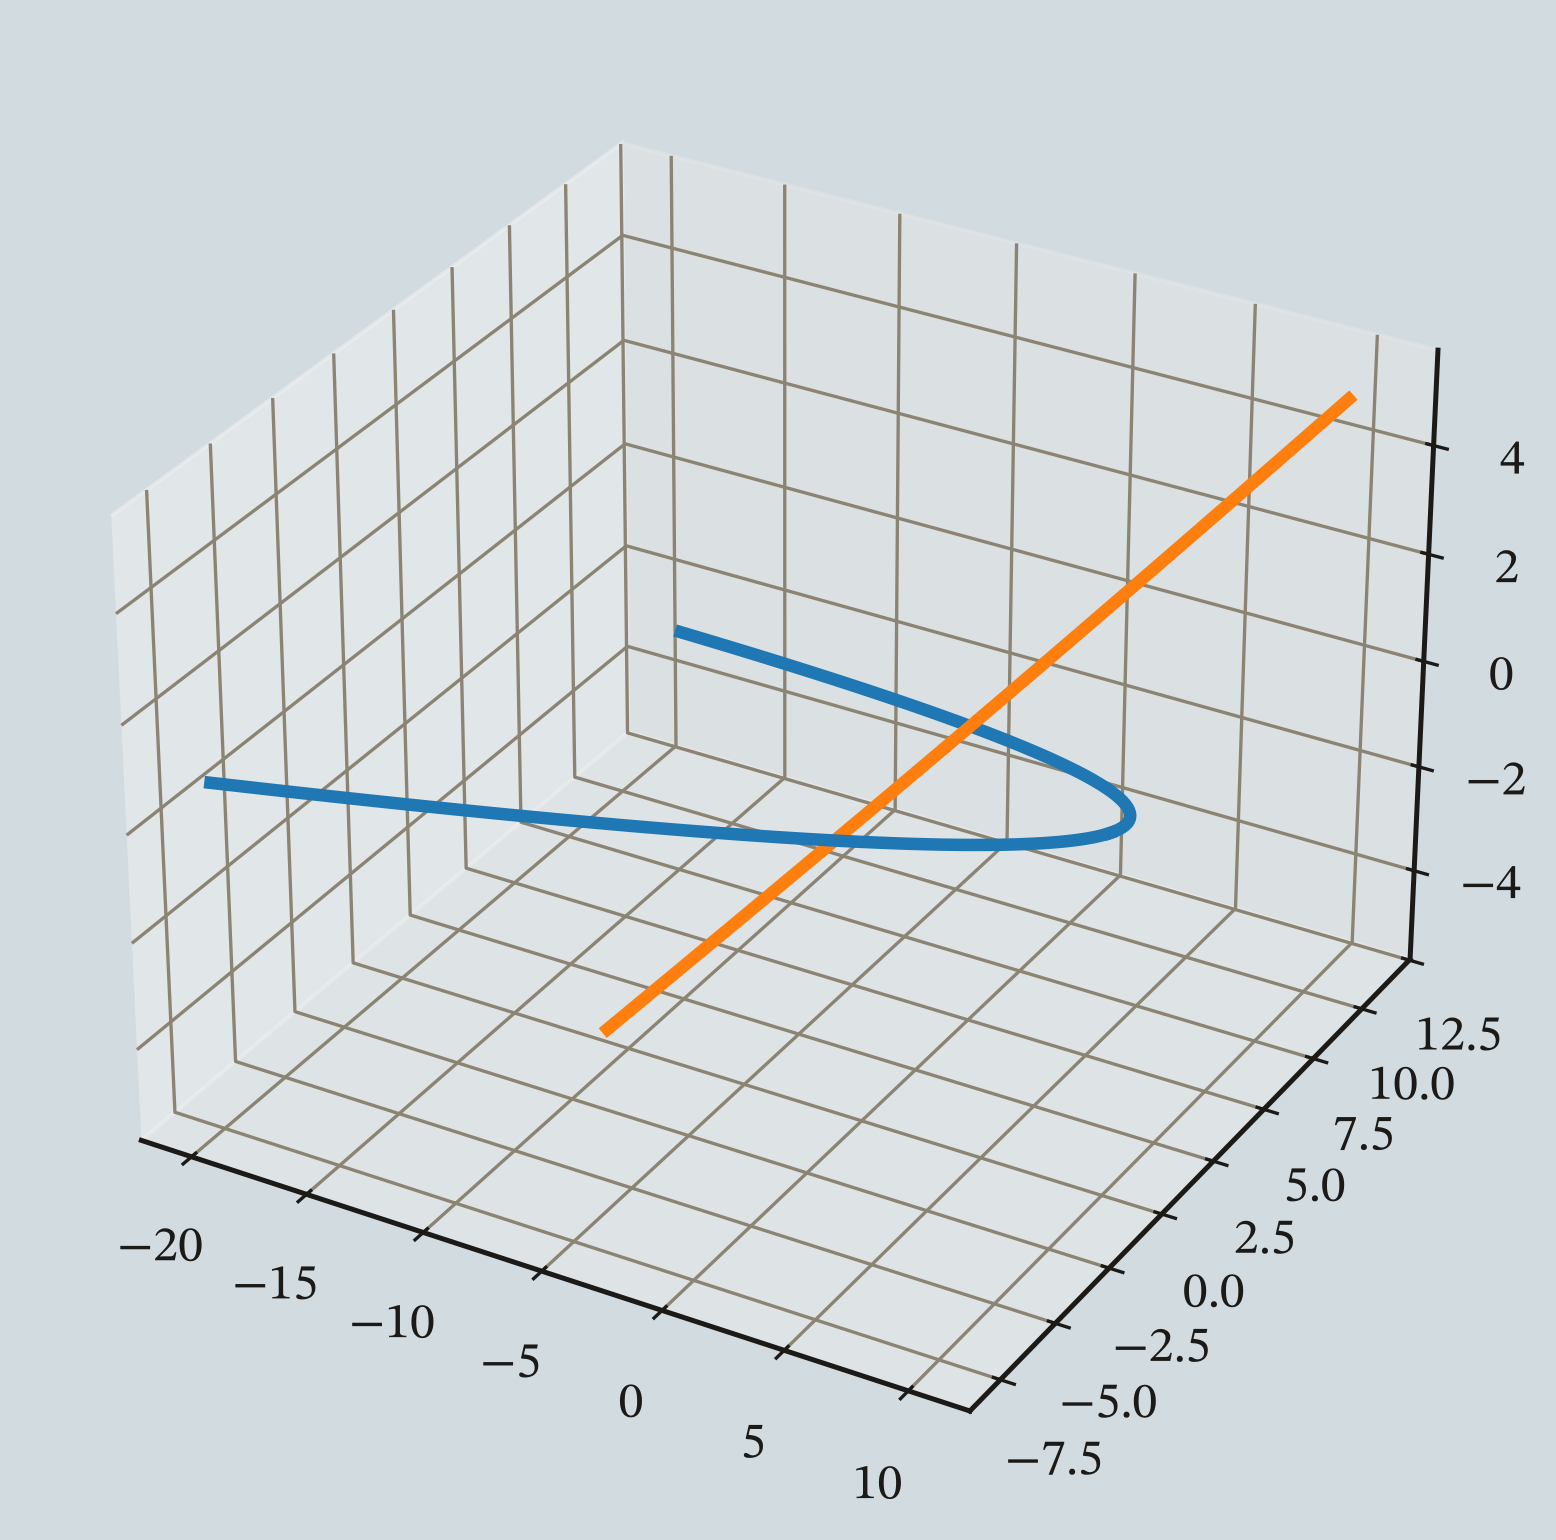
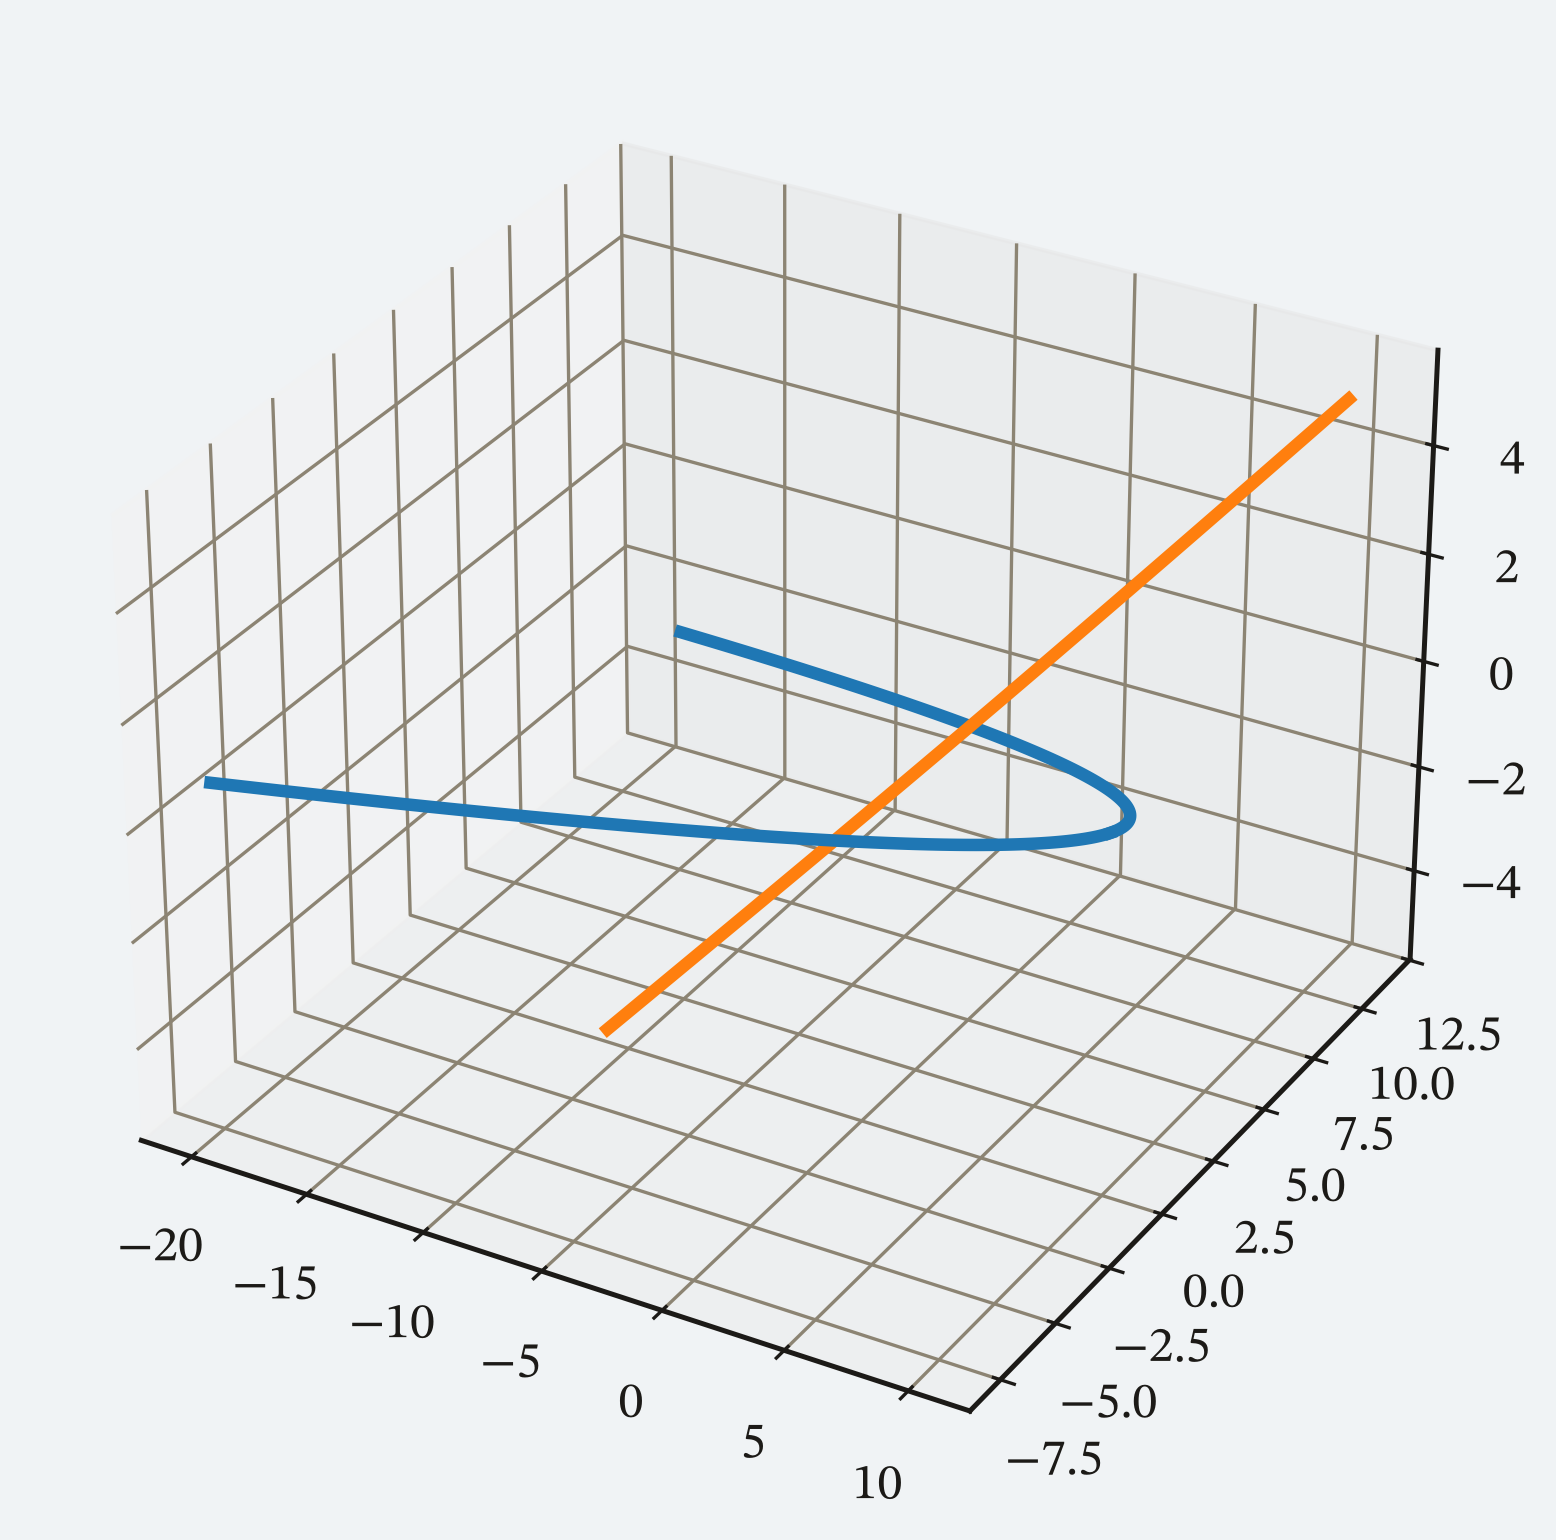
slightly cleaner colors

diff --git a/examples/post_plots.py b/examples/post_plots.py
@@ -14,13 +14,11 @@ def hsl(h, s, l):
 
 def setup_style(dark=False):
     if dark:
-        foreground = hsl(200, 20, 5)
-        axes_background = hsl(200, 20, 15)
+        background = hsl(200, 20, 5)
         text = hsl(40, 10, 90)
         secondary = hsl(40, 10, 50)
     else:
-        foreground = hsl(200, 20, 95)
-        axes_background = hsl(200, 20, 85)
+        background = hsl(200, 20, 95)
         text = hsl(40, 10, 10)
         secondary = hsl(40, 10, 50)
 
@@ -42,14 +40,14 @@ def setup_style(dark=False):
             "figure.dpi": 150,
             "savefig.dpi": 300,
             "savefig.bbox": "tight",
-            "figure.facecolor": axes_background,
-            "axes.facecolor": axes_background,
+            "figure.facecolor": background,
+            "axes.facecolor": background,
             "axes.edgecolor": text,
             "axes.labelcolor": text,
             "text.color": text,
             "xtick.color": text,
             "ytick.color": text,
-            "legend.facecolor": foreground,
+            "legend.facecolor": background,
             "legend.edgecolor": text,
             "legend.labelcolor": text,
         }
